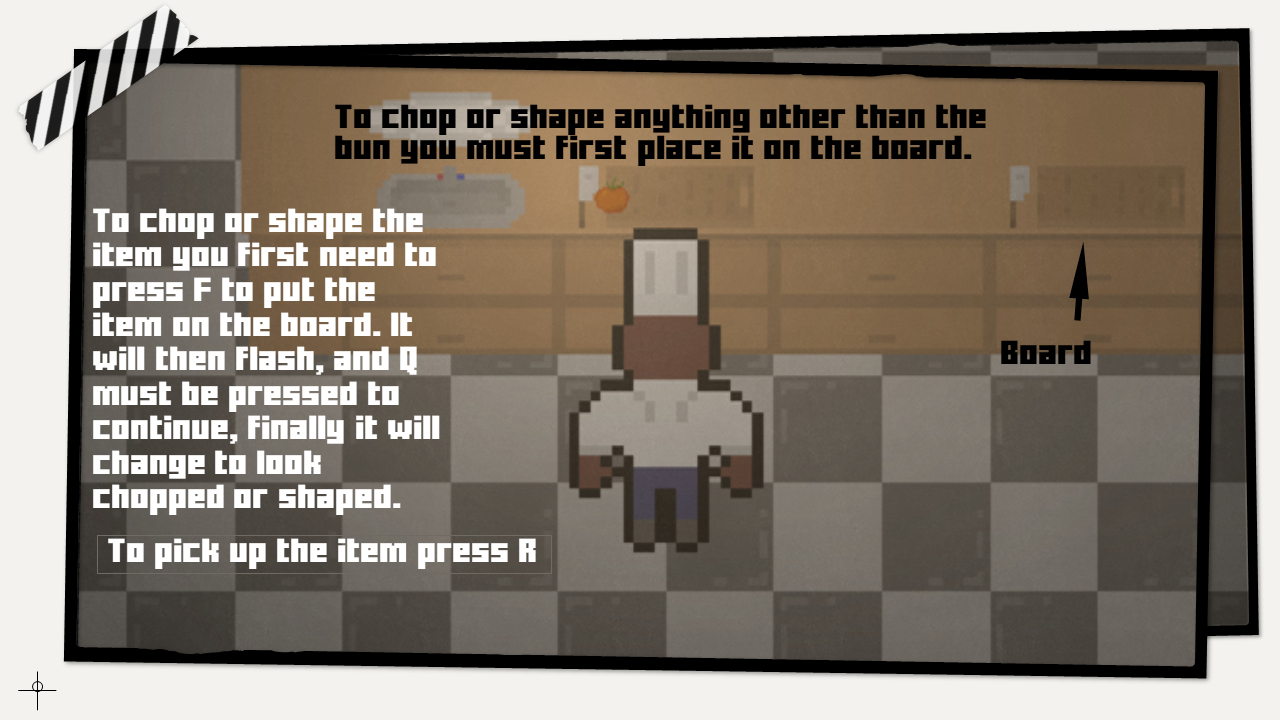
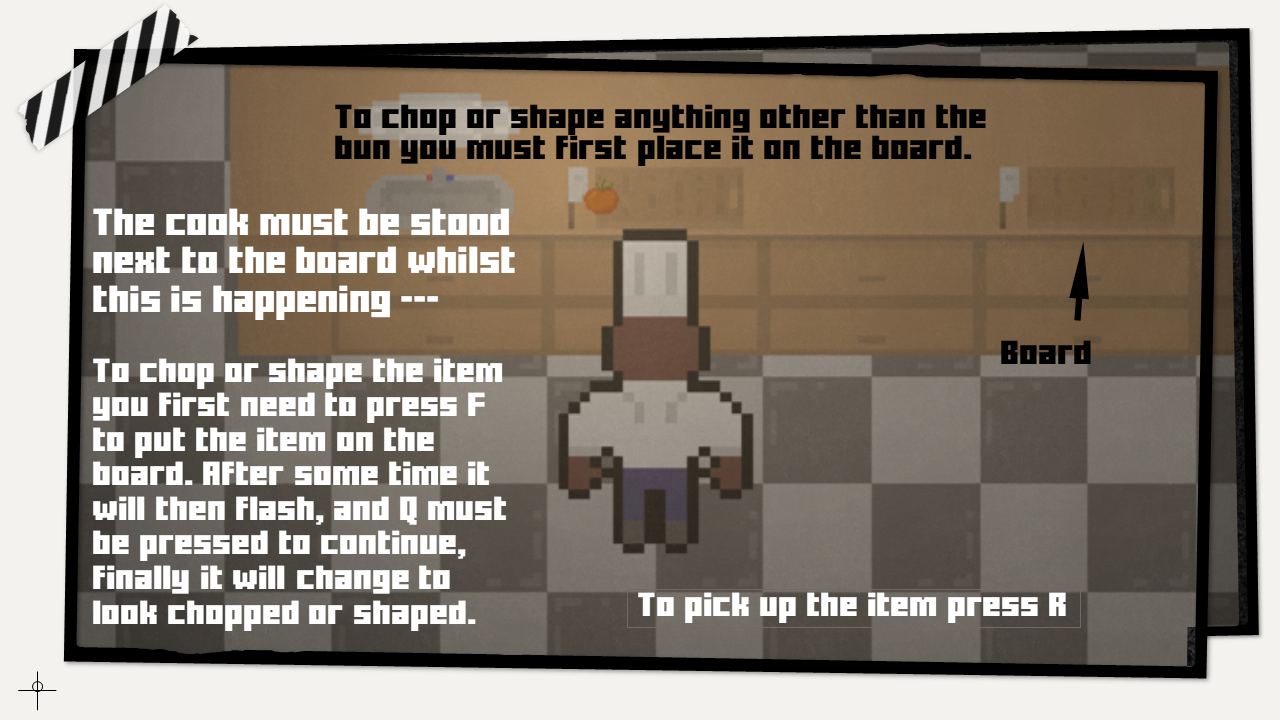
further changes to tutorial

diff --git a/core/src/com/devcharles/piazzapanic/scene2d/Slideshow.java b/core/src/com/devcharles/piazzapanic/scene2d/Slideshow.java
@@ -53,7 +53,7 @@ public class Slideshow extends ApplicationAdapter implements Screen {
             fileCount = 2;
         }
         else if (type == Type.tutorial) {
-            fileCount = 8;
+            fileCount = 11;
         }
 
         textures = new Texture[fileCount];
